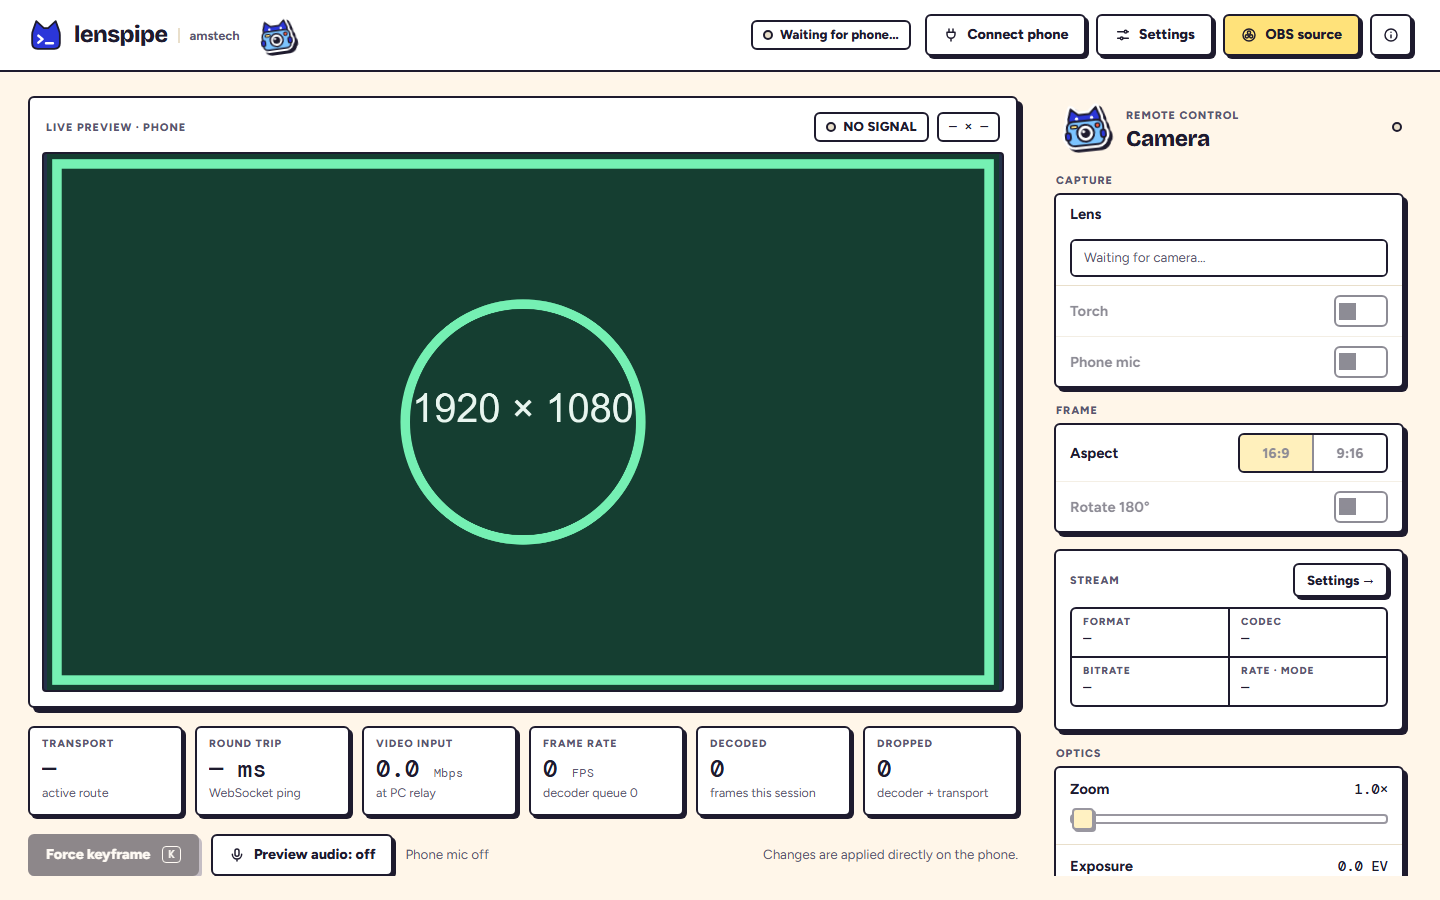
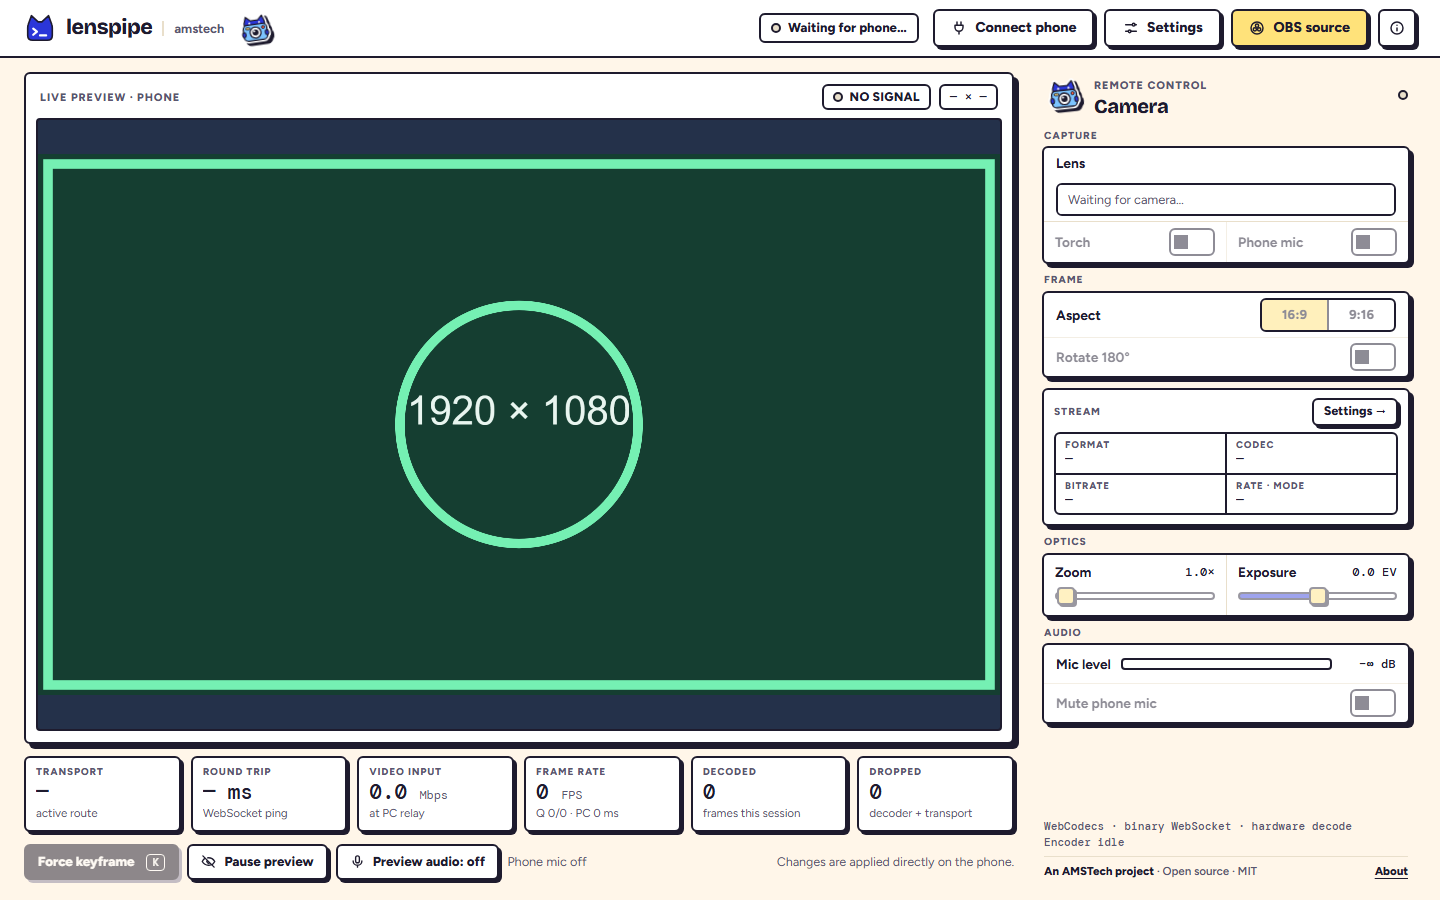
Fit desktop studio in 1080p without scrollbars and update UI checks

Changed region(s): [[0.0, 0.0, 1.0, 0.9956], [0.25, 0.3733, 0.4688, 0.6222], [0.375, 0.3422, 0.4375, 0.4044]]

diff --git a/src/control.css b/src/control.css
@@ -2,17 +2,20 @@
 
 /* ============ Studio (PC) — AMSTech ============ */
 body { overflow-x: hidden; }
-.studio-shell { min-height: 100vh; min-height: 100dvh; background: var(--bg); }
+.studio-shell { display: flex; flex-direction: column; height: 100vh; height: 100dvh; background: var(--bg); overflow: hidden; }
 
 /* header: Thor, the name, the camera sticker; status and the three actions on the right (OBS in yellow) */
 .studio-header {
-  position: sticky; top: 0; z-index: 10; display: flex; align-items: center; gap: 14px;
-  min-height: 72px; padding: 10px 28px; background: var(--cab); border-bottom: var(--ancho) solid var(--borde);
+  flex: none; position: sticky; top: 0; z-index: 10; display: flex; align-items: center; gap: 12px;
+  min-height: 58px; padding: 7px 24px; background: var(--cab); border-bottom: var(--ancho) solid var(--borde);
 }
-.studio-brand { display: flex; align-items: center; gap: 10px; color: inherit; text-decoration: none; font-size: 1.5rem; }
+.studio-brand { display: flex; align-items: center; gap: 10px; color: inherit; text-decoration: none; font-size: 1.38rem; }
+.studio-brand .thor { width: 32px; height: 32px; }
 .studio-brand span { padding-left: 10px; border-left: 2px solid var(--linea); }
-.header-sticker { transform: rotate(-8deg); }
+.header-sticker { width: 38px; height: 35px; transform: rotate(-8deg); }
 .header-actions { display: flex; align-items: center; gap: 10px; margin-left: auto; }
+.header-actions .secondary-button, .header-actions .icon-button { min-height: 38px; }
+.header-actions .icon-button { width: 38px; }
 .status-chip { margin-right: 4px; max-width: 280px; overflow: hidden; text-overflow: ellipsis; }
 .status-chip > span { overflow: hidden; text-overflow: ellipsis; }
 .status-chip i, #remote-dot { display: inline-block; flex: none; width: 10px; height: 10px; border-radius: 50%; border: 2px solid var(--borde); background: var(--ams-linea); }
@@ -20,27 +23,32 @@ body { overflow-x: hidden; }
 
 /* layout */
 .studio-layout {
-  display: grid; grid-template-columns: minmax(0, 1fr) 360px; gap: 26px;
-  max-width: 1600px; margin: 0 auto; padding: 24px 28px;
-  height: calc(100vh - 72px); height: calc(100dvh - 72px); min-height: 560px;
+  flex: 1 1 0; width: 100%; display: grid; grid-template-columns: minmax(0, 1fr) 376px; gap: 20px;
+  max-width: 1680px; margin: 0 auto; padding: 14px 24px; min-height: 0;
 }
 .studio-layout, .preview-column, .control-panel { min-height: 0; }
-.preview-column { min-width: 0; overflow-y: auto; padding: 0 8px 8px 0; scrollbar-width: thin; scrollbar-color: var(--linea) transparent; }
+.preview-column {
+  display: flex; flex-direction: column; gap: 12px; min-width: 0;
+  overflow-y: auto; padding: 0 6px 6px 0; scrollbar-width: thin; scrollbar-color: var(--linea) transparent;
+}
 
 /* preview: the main box of the screen */
-.window { padding: 12px 12px 14px; background: var(--hoja); border: var(--ancho) solid var(--borde); border-radius: var(--r); box-shadow: var(--sombra); }
-.window-bar { display: flex; align-items: center; justify-content: space-between; gap: 12px; padding: 2px 4px 10px; }
+.window {
+  flex: 1 1 0; min-height: 0; display: flex; flex-direction: column;
+  padding: 10px 10px 11px; background: var(--hoja); border: var(--ancho) solid var(--borde); border-radius: var(--r); box-shadow: var(--sombra);
+}
+.window-bar { flex: none; display: flex; align-items: center; justify-content: space-between; gap: 10px; padding: 0 4px 8px; }
+.window-bar .pill { min-height: 26px; padding: 1px 9px; font-size: .8rem; }
 .preview-topline { display: inline-flex; align-items: center; flex-wrap: wrap; justify-content: flex-end; gap: 8px; min-width: 0; }
 .obs-status-pill[hidden] { display: none; }
 .obs-status-pill[data-level='warn'] { background: var(--amarillo); }
 .transport-badge { letter-spacing: .02em; }
 .studio-shell:has(.status-chip.online) .live-dot { background: var(--ams-senal); }
 .preview-frame {
-  position: relative; isolation: isolate; display: flex; align-items: center; justify-content: center;
-  width: 100%; height: min(60vh, calc((100vw - 480px) * .5625)); height: min(60dvh, calc((100vw - 480px) * .5625)); min-height: 260px;
-  background: #24314A; border: var(--ancho) solid var(--borde); border-radius: 4px; overflow: hidden;
+  flex: 1 1 0; min-height: 220px; position: relative; isolation: isolate; display: flex; align-items: center; justify-content: center;
+  width: 100%; background: #24314A; border: var(--ancho) solid var(--borde); border-radius: 4px; overflow: hidden;
 }
-#preview { display: block; width: auto; height: auto; max-width: 100%; max-height: 100%; background: #000; flex: 0 1 auto; }
+#preview { display: block; width: auto; height: auto; max-width: 100%; max-height: 100%; min-width: 0; min-height: 0; background: #000; flex: 0 1 auto; }
 .studio-shell:has(.status-chip.online) #preview { cursor: crosshair; }
 .preview-frame .focus-ring { position: absolute; z-index: 2; }
 .waiting-overlay { position: absolute; inset: 0; display: flex; flex-direction: column; align-items: center; justify-content: center; gap: 6px; padding: 24px; background: var(--ams-fondo); text-align: center; }
@@ -53,74 +61,96 @@ body { overflow-x: hidden; }
 .pulse-ring { width: 12px; height: 12px; margin-bottom: 4px; border-radius: 50%; border: 2px solid var(--borde); background: var(--ams-linea); animation: pulse 1.6s infinite; }
 @keyframes pulse { 50% { background: var(--ams-senal); } }
 
-.health-banner { margin-top: 18px; padding: 12px 12px 12px 16px; }
+.health-banner { flex: none; margin-top: 0; padding: 9px 12px 9px 14px; }
 
 /* telemetry: one box per figure, numbers in mono */
-.telemetry-grid { display: grid; grid-template-columns: repeat(6, minmax(0, 1fr)); gap: 12px; margin-top: 18px; }
-.telemetry-grid > div { min-width: 0; padding: 10px 12px 11px; background: var(--hoja); border: var(--ancho) solid var(--borde); border-radius: var(--r); box-shadow: 3px 3px 0 var(--borde); }
+.telemetry-grid { flex: none; display: grid; grid-template-columns: repeat(6, minmax(0, 1fr)); gap: 10px; margin-top: 0; }
+.telemetry-grid > div { min-width: 0; padding: 8px 10px 8px; background: var(--hoja); border: var(--ancho) solid var(--borde); border-radius: var(--r); box-shadow: 3px 3px 0 var(--borde); }
 /* only the caption: the value spans inside <strong> keep the figure's size */
-.telemetry-grid > div > span { display: block; font: 800 .68rem/1.2 var(--sans); letter-spacing: .09em; text-transform: uppercase; color: var(--gris); }
-.telemetry-grid strong { display: block; margin: 4px 0 2px; font: 500 1.55rem/1.15 var(--mono); font-variant-numeric: tabular-nums; white-space: nowrap; overflow: hidden; text-overflow: ellipsis; }
-.telemetry-grid em { font-size: .8rem; font-style: normal; font-weight: 400; color: var(--gris); }
-.telemetry-grid small { display: block; font-size: .8rem; color: var(--gris); white-space: nowrap; overflow: hidden; text-overflow: ellipsis; }
+.telemetry-grid > div > span { display: block; font: 800 .64rem/1.2 var(--sans); letter-spacing: .09em; text-transform: uppercase; color: var(--gris); }
+.telemetry-grid strong { display: block; margin: 2px 0 1px; font: 500 1.35rem/1.15 var(--mono); font-variant-numeric: tabular-nums; white-space: nowrap; overflow: hidden; text-overflow: ellipsis; }
+.telemetry-grid em { font-size: .76rem; font-style: normal; font-weight: 400; color: var(--gris); }
+.telemetry-grid small { display: block; font-size: .74rem; color: var(--gris); white-space: nowrap; overflow: hidden; text-overflow: ellipsis; }
 
-.preview-actions { display: flex; align-items: center; flex-wrap: wrap; gap: 12px; margin-top: 18px; }
-.preview-actions > span:last-child { margin-left: auto; color: var(--gris); font-size: .86rem; }
+.preview-actions { flex: none; display: flex; align-items: center; flex-wrap: nowrap; gap: 8px; margin-top: 0; }
+.preview-actions button { min-height: 36px; padding: 0 12px; font-size: .85rem; white-space: nowrap; flex: none; }
+.preview-actions > span:last-child { margin-left: auto; flex: none; color: var(--gris); font-size: .8rem; white-space: nowrap; }
 kbd { margin-left: 4px; padding: 0 5px; border: 1.5px solid currentColor; border-radius: 4px; font: 500 .74rem var(--mono); }
-.audio-status { font-size: .86rem; color: var(--gris); }
+.audio-status { font-size: .82rem; color: var(--gris); min-width: 0; overflow: hidden; text-overflow: ellipsis; white-space: nowrap; }
 .audio-status[data-level='ok'] { color: var(--tinta); }
 .audio-status[data-level='ok']::before { content: ''; display: inline-block; width: 8px; height: 8px; margin-right: 6px; border-radius: 50%; border: 2px solid var(--borde); background: #6FD08C; vertical-align: 0; }
 .audio-status[data-level='warn'] { color: var(--aviso); font-weight: 700; }
 
 /* side panel: a caption over each box */
-.control-panel { overflow-y: auto; overscroll-behavior: contain; padding: 0 8px 8px 2px; scrollbar-width: thin; scrollbar-color: var(--linea) transparent; }
-.panel-heading { display: flex; align-items: center; gap: 12px; padding: 4px 2px 4px; }
-.panel-heading .sticker { transform: rotate(-6deg); }
-.panel-heading h2 { margin-top: 2px; font: 800 1.45rem/1.1 var(--titulos); letter-spacing: -.015em; }
+.control-panel { display: flex; flex-direction: column; overflow-y: auto; overscroll-behavior: contain; padding: 0 6px 6px 2px; scrollbar-width: thin; scrollbar-color: var(--linea) transparent; }
+.panel-heading { flex: none; display: flex; align-items: center; gap: 10px; padding: 0 2px 2px; }
+.panel-heading .sticker { width: 40px; height: 37px; transform: rotate(-6deg); }
+.panel-heading h2 { margin-top: 1px; font: 800 1.28rem/1.08 var(--titulos); letter-spacing: -.015em; }
 .panel-heading #remote-dot { margin-left: auto; }
-.control-section { padding-top: 16px; }
-.section-title { display: block; margin: 0 0 6px 2px; }
+.control-section { flex: none; padding-top: 10px; }
+.section-title { display: block; margin: 0 0 4px 2px; font-size: .66rem; }
 .small-button { min-height: 34px; padding: 0 12px; font-size: .86rem; }
 .icon-button { width: var(--alto-btn); padding: 0; }
+.control-panel .row { min-height: 38px; padding: 5px 12px; gap: 10px; font-size: .88rem; }
+.control-panel .switch-row::after { width: 42px; height: 24px; background: var(--hoja) linear-gradient(var(--borde), var(--borde)) 3px 50% / 14px 14px no-repeat; }
+.control-panel .switch-row.active::after { background: var(--marca) linear-gradient(#fff, #fff) calc(100% - 3px) 50% / 14px 14px no-repeat; }
 
 /* segmented buttons (lens, aspect): yellow when chosen */
 .segments { display: flex; flex: 0 1 auto; min-width: 0; border: var(--ancho) solid var(--borde); border-radius: var(--r); overflow: hidden; background: var(--hoja); }
 .segments button { flex: 1 1 0; min-width: 0; min-height: 36px; padding: 0 10px; border: 0; border-left: 2px solid var(--borde); background: none;
   color: var(--tinta); font-size: .9rem; font-weight: 800; white-space: nowrap; overflow: hidden; text-overflow: ellipsis; }
+.control-panel .segments button { min-height: 30px; font-size: .84rem; }
 .segments button:first-child { border-left: 0; }
 .segments button:hover:not(:disabled) { background: var(--sel); }
 .segments button.active { background: var(--amarillo); }
 .segments button small { display: none; }
 .segments-empty { padding: 7px 12px; font-size: .86rem; color: var(--gris); white-space: nowrap; }
-.lens-row { flex-wrap: wrap; }
+.lens-row { flex-wrap: wrap; row-gap: 6px; padding: 7px 12px 9px; }
 .lens-row .row-label { flex-basis: 100%; }
 .lens-row .segments { flex: 1 1 100%; flex-wrap: wrap; gap: 2px; background: var(--borde); }
-.lens-row .segments button { flex: 1 0 auto; max-width: 100%; padding: 0 8px; border-left: 0; background: var(--hoja); font-size: .86rem; }
+.lens-row .segments button { flex: 1 0 auto; max-width: 100%; min-height: 31px; padding: 0 7px; border-left: 0; background: var(--hoja); font-size: .82rem; }
 .lens-row .segments button:hover:not(:disabled) { background: var(--sel); }
 .lens-row .segments button.active { background: var(--amarillo); }
 .lens-row .segments button:disabled { opacity: 1; color: color-mix(in srgb, var(--tinta) 45%, var(--hoja)); }
 .lens-row .segments button.active:disabled { background: color-mix(in srgb, var(--amarillo) 50%, var(--hoja)); }
-.lens-row .segments-empty { flex: 1 1 100%; background: var(--hoja); }
-.segment-control { width: 150px; }
+.lens-row .segments-empty { flex: 1 1 100%; background: var(--hoja); padding: 5px 10px; font-size: .82rem; }
+.segment-control { width: 136px; }
+.control-panel .camera-modes { display: grid; grid-template-columns: repeat(2, minmax(0, 1fr)); }
+.control-panel .camera-modes > .row { border-top: 0; padding: 6px 11px; gap: 8px; }
+.control-panel .camera-modes > .row + .row { border-left: 1.5px solid var(--linea); }
 
 /* stream box: caption + Settings → on one line, the settings as a cajetín */
-.stream-box { padding: 12px 14px 14px; }
-.stream-head { display: flex; align-items: center; justify-content: space-between; gap: 10px; margin-bottom: 10px; }
+.stream-box { padding: 8px 10px 9px; }
+.stream-head { display: flex; align-items: center; justify-content: space-between; gap: 10px; margin-bottom: 6px; }
 .stream-head .section-title { margin: 0; }
+.stream-head .small-button { min-height: 28px; padding: 0 10px; font-size: .8rem; }
 .cajetin { display: grid; grid-template-columns: repeat(2, minmax(0, 1fr)); gap: 2px; margin: 0; background: var(--borde); border: var(--ancho) solid var(--borde); border-radius: var(--r); overflow: hidden; }
-.cajetin > div { min-width: 0; padding: 7px 11px 8px; background: var(--hoja); }
-.cajetin dt { margin-bottom: 1px; font: 800 .66rem/1.2 var(--sans); letter-spacing: .09em; text-transform: uppercase; color: var(--gris); }
-.cajetin dd { margin: 0; font: 500 .92rem/1.3 var(--mono); white-space: nowrap; overflow: hidden; text-overflow: ellipsis; }
-.stream-detail { margin: 8px 0 0; font-size: .82rem; }
+.cajetin > div { min-width: 0; padding: 5px 9px 5px; background: var(--hoja); }
+.cajetin dt { margin-bottom: 1px; font: 800 .62rem/1.2 var(--sans); letter-spacing: .09em; text-transform: uppercase; color: var(--gris); }
+.cajetin dd { margin: 0; font: 500 .84rem/1.25 var(--mono); white-space: nowrap; overflow: hidden; text-overflow: ellipsis; }
+.stream-detail { margin: 0; font-size: .78rem; }
+.stream-detail:has(.photo-mode-detail) { margin-top: 6px; }
 .stream-detail small:not(.photo-mode-detail) { display: none; }
 .photo-mode-detail { color: var(--aviso); font-weight: 700; }
 
-.remote-audio-meter .row-label { flex: 0 0 auto; }
-.remote-audio-meter b { min-width: 58px; font: 500 .86rem var(--mono); color: var(--tinta); text-align: right; font-variant-numeric: tabular-nums; }
+/* optics: two compact side-by-side sliders on desktop */
+.control-panel .optics-group { display: grid; grid-template-columns: repeat(2, minmax(0, 1fr)); }
+.control-panel .optics-group > .slider-row { border-top: 0; min-height: 0; padding: 7px 11px 8px; row-gap: 3px; column-gap: 6px; }
+.control-panel .optics-group > .slider-row + .slider-row { border-left: 1.5px solid var(--linea); }
+.control-panel .optics-group .slider-row strong { font-size: .8rem; white-space: nowrap; }
+.control-panel .optics-group input[type='range'] { height: 22px; }
+.control-panel .optics-group input[type='range']::-webkit-slider-runnable-track { height: 8px; }
+.control-panel .optics-group input[type='range']::-webkit-slider-thumb { width: 18px; height: 18px; margin-top: -7px; }
+.control-panel .optics-group input[type='range']::-moz-range-thumb { width: 14px; height: 14px; }
 
-.panel-footer { display: block; margin-top: 14px; padding: 0 2px; font: 500 .76rem/1.7 var(--mono); color: var(--gris); }
-.panel-footer span { display: block; }
-.footer-brand { display: flex; align-items: baseline; justify-content: space-between; gap: 8px; margin-top: 12px; padding-top: 10px; border-top: 1.5px solid var(--linea); font-family: var(--sans); }
+.control-panel .meter { height: 12px; }
+.remote-audio-meter .row-label { flex: 0 0 auto; }
+.remote-audio-meter b { min-width: 54px; font: 500 .8rem var(--mono); color: var(--tinta); text-align: right; font-variant-numeric: tabular-nums; }
+
+.panel-footer { display: block; margin-top: auto; padding: 10px 2px 0; font: 500 .72rem/1.45 var(--mono); color: var(--gris); }
+.panel-footer > span { display: block; white-space: nowrap; overflow: hidden; text-overflow: ellipsis; }
+.footer-brand { display: flex; align-items: baseline; justify-content: space-between; gap: 8px; margin-top: 6px; padding-top: 6px; border-top: 1.5px solid var(--linea); font-family: var(--sans); }
+.panel-footer .signature, .panel-footer .text-link { font-size: .74rem; }
 .text-link { padding: 0; border: 0; background: none; color: var(--tinta); font: 800 .78rem var(--sans); text-decoration: underline; text-underline-offset: 3px; }
 .text-link:hover { color: var(--marca); }
 
@@ -235,12 +265,46 @@ dialog.obs-dialog { width: min(820px, calc(100vw - 32px)); }
 }
 #studio-toast.visible { opacity: 1; transform: translate(-50%, 0); }
 
+@media (max-width: 1340px) {
+  .preview-actions > span:last-child { display: none; }
+}
+@media (min-width: 1101px) and (max-height: 820px) {
+  .studio-header { min-height: 50px; padding: 5px 20px; }
+  .studio-header .secondary-button, .studio-header .icon-button { min-height: 34px; }
+  .studio-header .icon-button { width: 34px; }
+  .studio-layout { padding: 10px 20px; gap: 16px; }
+  .preview-column { gap: 9px; }
+  .telemetry-grid > div { padding: 6px 9px; }
+  .telemetry-grid strong { font-size: 1.2rem; }
+  .preview-actions button { min-height: 32px; font-size: .82rem; }
+  .panel-heading .sticker { width: 34px; height: 32px; }
+  .panel-heading h2 { font-size: 1.15rem; }
+  .control-section { padding-top: 5px; }
+  .section-title { margin-bottom: 3px; }
+  .control-panel .row { min-height: 33px; padding: 4px 10px; font-size: .84rem; }
+  .lens-row { padding: 5px 10px 7px; row-gap: 4px; }
+  .lens-row .segments button, .control-panel .segments button { min-height: 27px; }
+  .stream-box { padding: 7px 9px 8px; }
+  .cajetin > div { padding: 4px 8px; }
+  .control-panel .optics-group > .slider-row { padding: 5px 10px 6px; }
+  .panel-footer { padding-top: 5px; font-size: .68rem; line-height: 1.35; }
+  .footer-brand { margin-top: 4px; padding-top: 4px; }
+}
 @media (max-width: 1100px) {
-  .studio-layout { grid-template-columns: 1fr; height: auto; min-height: calc(100dvh - 72px); }
-  .preview-column, .control-panel { overflow: visible; }
+  .studio-shell { height: auto; min-height: 100vh; min-height: 100dvh; overflow: visible; }
+  .studio-layout { flex: none; grid-template-columns: 1fr; height: auto; min-height: calc(100dvh - 58px); padding: 18px 20px; gap: 20px; }
+  .preview-column, .control-panel { overflow: visible; padding: 0; }
+  .window { flex: none; }
+  .preview-frame { flex: none; height: 56vw; }
+  .preview-actions { flex-wrap: wrap; }
   .control-panel { display: grid; grid-template-columns: repeat(2, minmax(0, 1fr)); gap: 0 24px; }
+  .control-panel .camera-modes, .control-panel .optics-group { grid-template-columns: 1fr; }
+  .control-panel .camera-modes > .row { padding: 7px 14px; gap: 14px; }
+  .control-panel .camera-modes > .row + .row, .control-panel .optics-group > .slider-row + .slider-row { border-left: 0; border-top: 1.5px solid var(--linea); }
+  .control-panel .row { min-height: 46px; padding: 7px 14px; font-size: .92rem; }
+  .control-panel .optics-group > .slider-row { padding: 9px 14px 11px; }
   .panel-heading, .panel-footer { grid-column: 1 / -1; }
-  .preview-frame { height: 56vw; }
+  .panel-footer { margin-top: 14px; }
   .telemetry-grid { grid-template-columns: repeat(3, minmax(0, 1fr)); }
   .header-sticker { display: none; }
 }

diff --git a/src/control/main.ts b/src/control/main.ts
@@ -300,6 +300,7 @@ function setOnline(online: boolean): void {
     $('metric-rtt').textContent = '— ms';
     $('metric-queue').textContent = 'decoder queue 0';
     $('encoder-mode').textContent = 'Encoder idle';
+    $('encoder-mode').title = 'Encoder idle';
     $('settings-encoder-status').textContent = 'Connect a phone to apply settings.';
     $<HTMLElement>('remote-audio-level').style.setProperty('--level', '0');
     $('remote-audio-db').textContent = '−∞ dB';
@@ -540,6 +541,7 @@ function applySenderState(message: ControlMessage): void {
   renderStreamSummary(latestSettings);
   const status = settings.encoderStatus || (settings.bitrateMode === 'constant' ? 'CBR active' : 'VBR active');
   $('encoder-mode').textContent = status;
+  $('encoder-mode').title = status;
   $('settings-encoder-status').textContent = status;
   updateToggle('remote-torch', settings.torch);
   updateToggle('remote-mic', settings.micEnabled);

diff --git a/control.html b/control.html
@@ -123,7 +123,7 @@
 
           <section class="control-section">
             <div class="section-title">Optics</div>
-            <div class="group">
+            <div class="group optics-group">
               <div class="row slider-row">
                 <label class="row-label" for="remote-zoom">Zoom</label>
                 <strong id="zoom-value">1.0×</strong>
